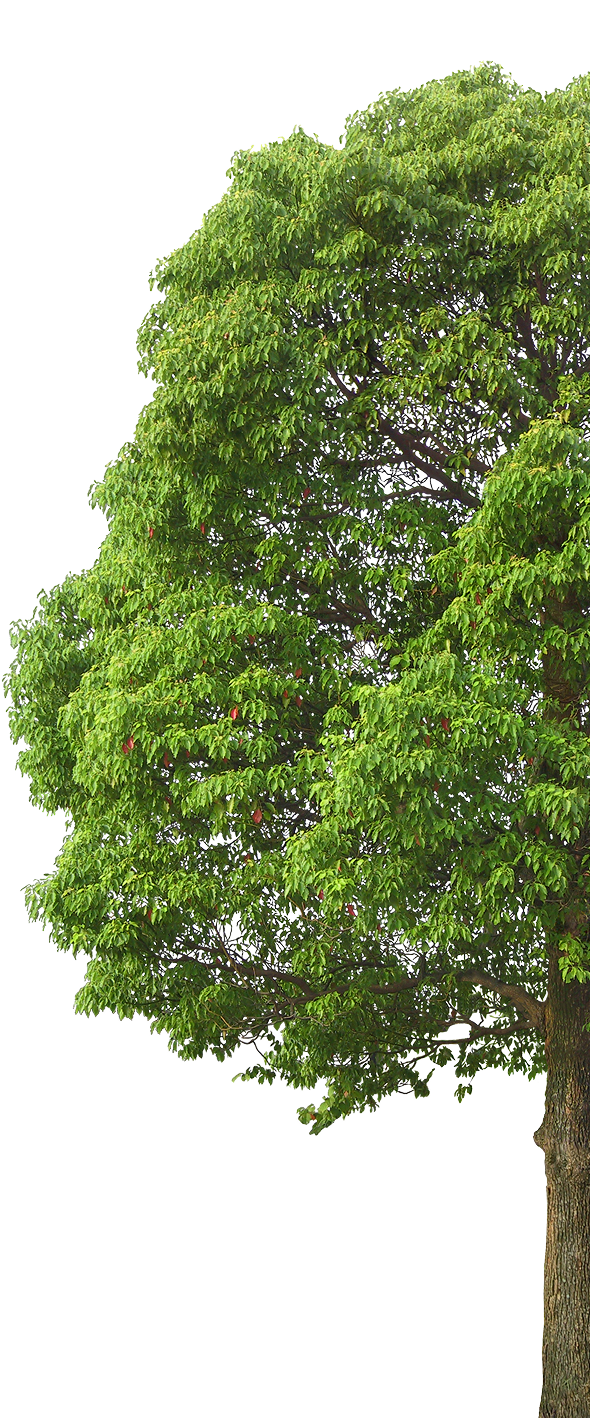
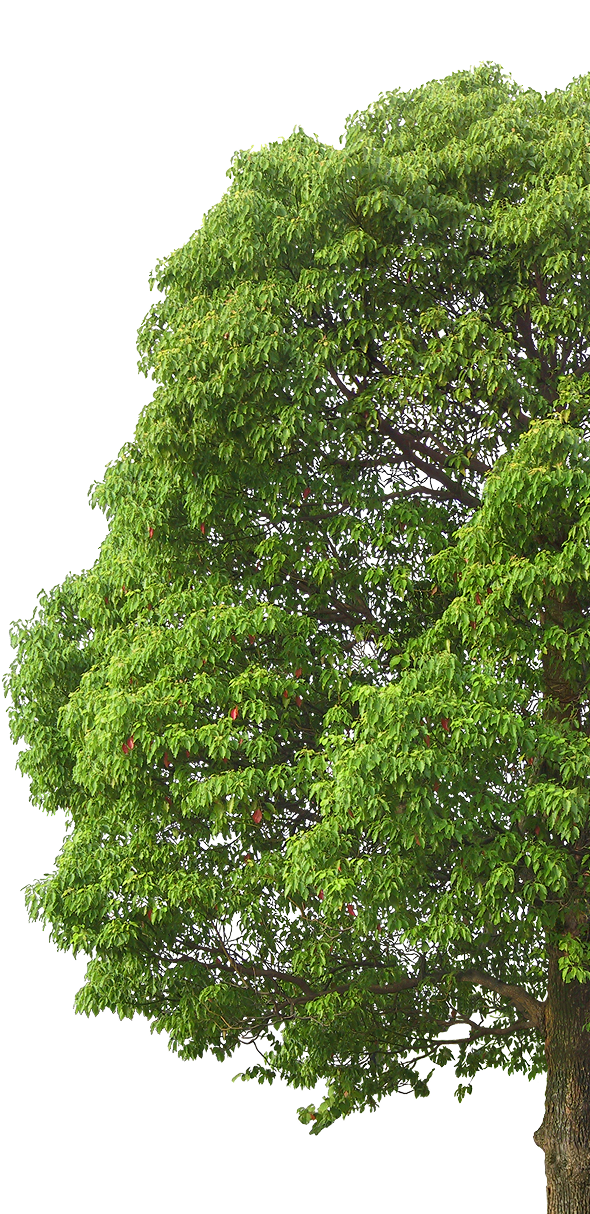
hovers + bug fixes

diff --git a/index.html b/index.html
@@ -10,7 +10,7 @@
     <link rel="stylesheet" href="css/reset.css">
     <link rel="stylesheet" href="css/main.css">
     <link rel="stylesheet" href="css/style.css">
-    <title>Landing</title>
+    <title>Web Zone - разработка сайтов для клубов экстремального туризма, отдыха и других outdoor-организаций</title>
 </head>
 <body>
     <header class="header">
@@ -50,7 +50,7 @@
                 </div>
             </div>
         </div>
-
+        <img src="img/shadow.png" alt="" class="main-bckgrnd-shadow">
     </header>
 
     <main class="main">
@@ -232,7 +232,7 @@
                     <hr class="green-list-afterline2">
                 </ul>
 
-                <img src="" alt="" class="green-img">
+                <img src="img/big tree.png" alt="" class="green-img">
             </div>
         </section>
 
@@ -243,11 +243,11 @@
                     <div class="form-fields-div">
                         <div class="form-name-div">
                             <label for="name" class="form-name-label">Имя*</label>
-                            <input type="text" name="name" class="form-name-input">
+                            <input type="text" name="name" class="form-name-input" placeholder="Александр">
                         </div>
                         <div class="form-number-div">
                             <label for="phone-number" class="form-number-label">Номер телефона*</label>
-                            <input type="tel" name="phone-number" class="form-number-input">
+                            <input type="tel" name="phone-number" class="form-number-input" placeholder="+70329885728">
                         </div>
                     </div>
                     <button name="submit" class="form-btn">Получить бесплатную консультацию</button>
@@ -333,7 +333,7 @@
         <div class="container footer-container">
             <div class="footer-contacts-div">
                 <img src="img/footer logo.svg" alt="" class="footer-logo">
-                <p class="footer-contact"><a href="" class="footer-contact-a">+380 953 674 456</a></p>
+                <p class="footer-contact"><a href="tel:380953674456" class="footer-contact-a">+380 953 674 456</a></p>
                 <p class="footer-contact"><a href="mailto:help@webzone.team" class="footer-contact-a">help@webzone.team</a></p>
             </div>
             <div class="footer-lists-div">
@@ -356,8 +356,8 @@
             <div class="c-and-socials-div">
                 <p class="footer-c">©2025 Webzone</p>
                 <div class="footer-socials-div">
-                    <img src="img/telegram logo.svg" alt="" class="footer-social-logo">
-                    <img src="img/instagram logo.svg" alt="" class="footer-social-logo">
+                    <a href="https://t.me/webzone_official" target="_blank"><img src="img/telegram logo.svg" alt="" class="footer-social-logo"></a>
+                    <a href="https://www.instagram.com/webzone_team?igsh=MTU0c3VncWp2YTZmeQ==" target="_blank"><img src="img/instagram logo.svg" alt="" class="footer-social-logo"></a>
                 </div>
             </div>
         </div>

diff --git a/css/style.css b/css/style.css
@@ -6,6 +6,8 @@
     background-size: cover;
     background-position: center;
     height: 945px;
+    position: relative;
+    width: 100vw;
 }
 
 .header-container {
@@ -43,6 +45,13 @@
     line-height: 100%;
     letter-spacing: 0%;
     color: #373737;
+
+    transition: all 0.3s ease;
+    display: inline-block;
+}
+
+.header-list-li-a:hover {
+    transform: scale(1.15);
 }
 
 /*Main section with background*/
@@ -87,6 +96,20 @@
     height: 68px;
     border: 1px solid #fff;
     border-radius: 17px;
+    transition: all .3s ease;
+}
+
+.main-bckgrnd-btn:hover {
+    background-color: #e2e2e2;
+    color: #504f49;
+}
+
+.main-bckgrnd-shadow {
+    width: 100%;
+    position: absolute;
+    z-index: 999;
+    right: 0;
+    bottom: -112px;
 }
 
 /*Section with trees*/
@@ -335,7 +358,6 @@
 }
 
 .notebook-site-btn {
-    
     border: 1px solid #414C27;
     border-radius: 12px;
 
@@ -343,6 +365,16 @@
     height: 49px;
 
     padding: 11px 52px;
+
+    transition: all 0.3s ease;
+}
+
+.notebook-site-btn:hover {
+    background-color: #414C27;
+}
+
+.notebook-site-btn:hover .notebook-site-btn-span {
+  color: #FFFFFF;
 }
 
 .notebook-site-btn-span {
@@ -556,6 +588,13 @@
     -webkit-text-stroke: 0.5px black;
 }
 
+.green-img {
+    position: absolute;
+    z-index: 999;
+    right: 0px;
+    bottom: 0px;
+}
+
 .green-list {
     display: flex;
     flex-direction: column;
@@ -748,6 +787,18 @@
 
     box-shadow: 0 1px 13px 5px rgba(75, 77, 53, 0.25);
     background: #fff;
+    padding-left: 15px;
+
+    font-family: Inter;
+    font-weight: 300;
+    font-size: 20px;
+    color: #000;
+
+    transition: all .3s ease;
+}
+
+.form-name-input:hover {
+    transform: scale(1.02);
 }
 
 .form-number-div {
@@ -764,6 +815,18 @@
 
     box-shadow: 0 1px 13px 5px rgba(75, 77, 53, 0.25);
     background: #fff;
+    padding-left: 15px;
+
+    font-family: Inter;
+    font-weight: 300;
+    font-size: 20px;
+    color: #000;
+
+    transition: all .3s ease;
+}
+
+.form-number-input:hover {
+    transform: scale(1.02);
 }
 
 .form-btn {
@@ -783,6 +846,12 @@
     display: block;
     margin-right: auto;
     margin-left: auto;
+    transition: all .3s ease;
+}
+
+.form-btn:hover {
+    background-color: #FFFFFF;
+    color: #4b4b4b;
 }
 
 /*Section with reviews from our clients*/
@@ -979,8 +1048,14 @@
     display: flex;
     justify-content: space-between;
     align-items: center;
+    
+    transition: all .3s ease;
 }
-  
+
+.faq-btn-header:hover {
+    transform: scale(1.02);
+}
+
 .faq-btn-header::after {
     content: "⮟";
     transition: transform 0.3s ease;
@@ -1047,6 +1122,12 @@
     color: #fff;
 
     margin-right: 180px;
+
+    transition: all .3s ease;
+}
+
+.footer-contact:hover {
+    transform: scale(1.1);
 }
 
 .footer-lists-div {
@@ -1091,6 +1172,12 @@
     font-weight: 500;
     font-size: 16px;
     color: #fff;
+
+    transition: all .3s ease;
+}
+
+.footer-list-li:hover {
+    transform: scale(1.1);
 }
 
 .c-and-socials-div {
@@ -1119,4 +1206,10 @@
 .footer-social-logo {
     width: 36px;
     height: 36px;
+
+    transition: all .3s ease;
+}
+
+.footer-social-logo:hover {
+    transform: scale(1.2);
 }
